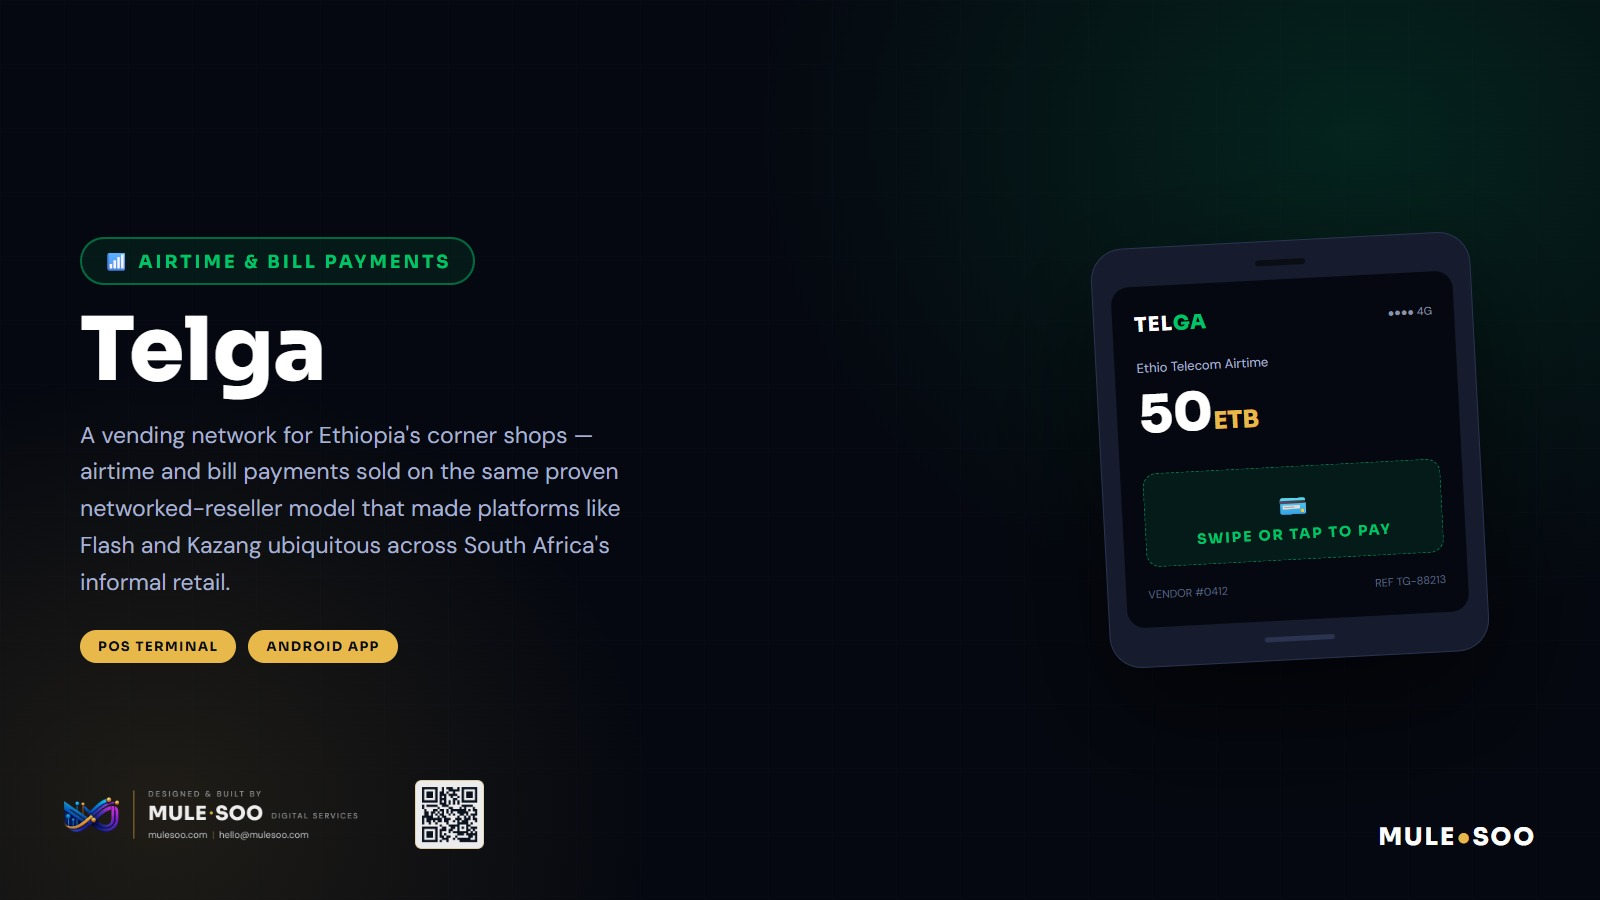
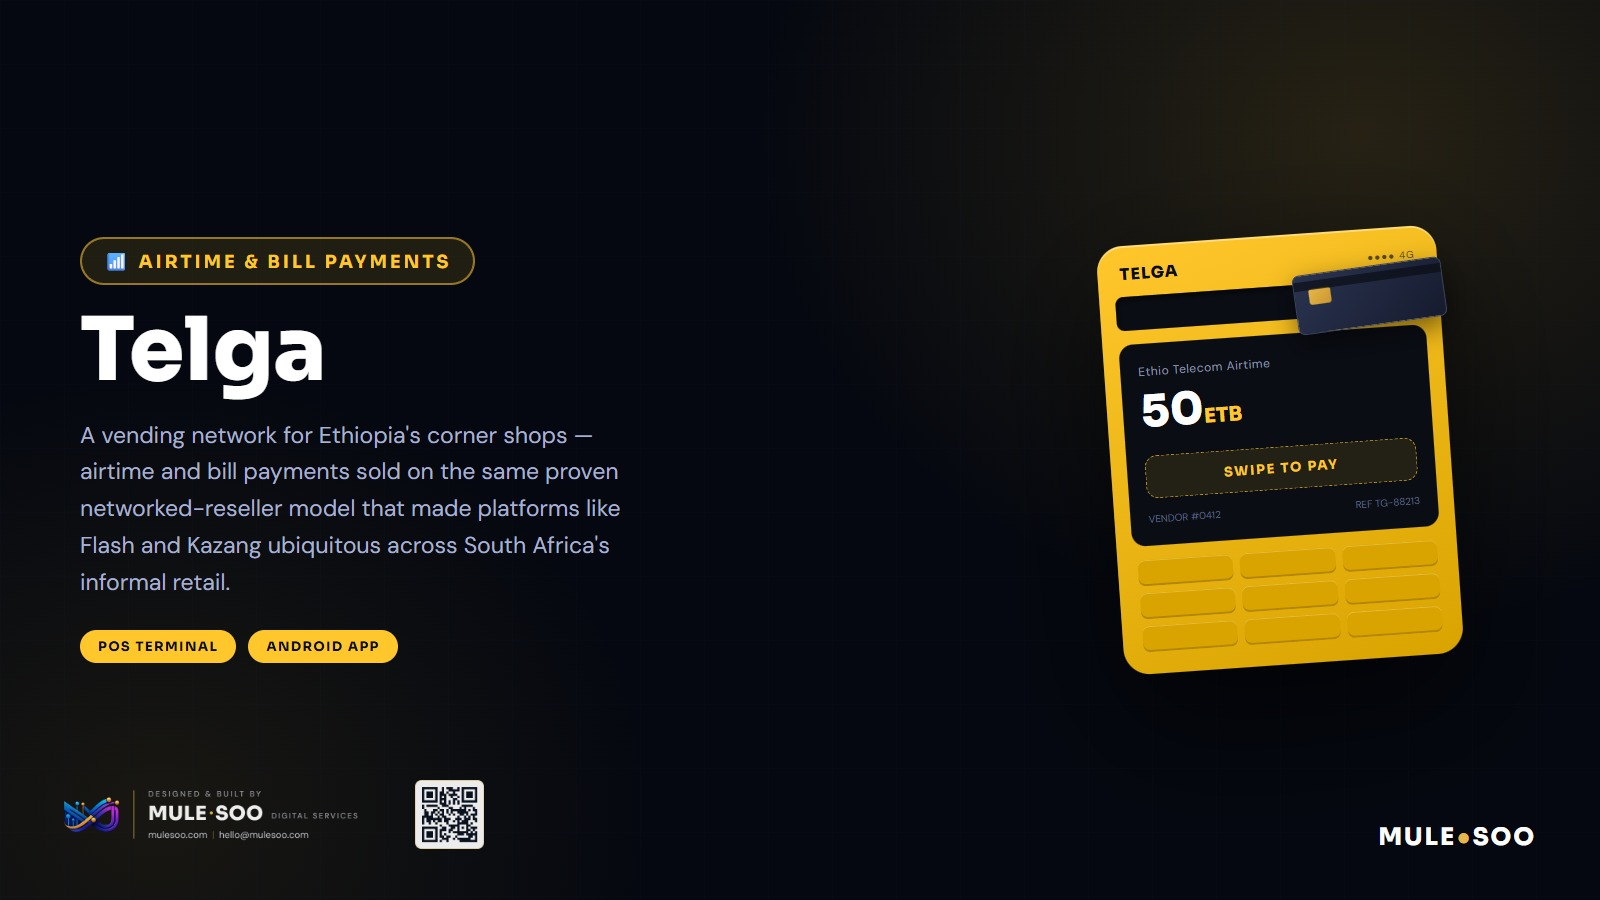
Redesign Telga as a real card terminal, wire in two live URLs, drop Habesha
Telga's cover was a slim phone-shaped screen; the direction was "look like a
new Flash swiping machine, but yellow" — a physical device, not an app.
Rebuilt around that silhouette: molded yellow plastic body, a recessed swipe
slot with a card mid-drag through it, a dark screen, and a physical keypad —
the details that read as a real handheld terminal rather than a screenshot
with a yellow tint.

Both cards that were waiting on a real URL now have one, each confirmed with
a live 200 fetch before being shipped as a clickable link:
  Kidane Mihret  -> pretoriakidanemihretchurch-beta.vercel.app
  Yewogen Derash -> yewogenderash.vercel.app

Habesha Celebration Events is removed from the portfolio entirely — the site
returns 200 on a raw status check, which proves nothing about whether it
actually works, and the user stated directly that it doesn't. The cover image
was left in public/: still referenced by app/about/page.tsx and
app/HomeClient.tsx, checked before touching anything, and removing it there
was never asked for.

Changed region(s): [[0.6562, 0.0, 0.9688, 0.7467], [0.0312, 0.2489, 0.3125, 0.3422], [0.0312, 0.6844, 0.25, 0.7467]]

diff --git a/app/portfolio/page.tsx b/app/portfolio/page.tsx
@@ -68,34 +68,6 @@ const fallbackProjects: Project[] = [
     ],
   },
   {
-    name: 'Habesha Celebration Events',
-    category: 'Website',
-    client: 'Ethiopian Wedding & Event Planning',
-    description: 'An elegant events platform that turns wedding dreams into confirmed bookings — working for you 24/7, even mid-event.',
-    image: 'habesha-celebration-portfolio.png',
-    result: 'Live booking platform',
-    tech: ['Next.js', 'React', 'Framer Motion', 'Netlify'],
-    theme: 'rose',
-    purpose:
-      'A refined online home for a wedding & events business — designed to make couples fall in love with the brand and book with confidence.',
-    capabilities: [
-      'Elegant photo galleries and package showcases',
-      'Instant enquiry form + WhatsApp booking',
-      'Mobile-first, fast-loading design',
-      'Testimonials that build trust',
-    ],
-    adminTracking: [
-      'Every enquiry captured and organised',
-      'See which packages get the most interest',
-      'Follow up leads with status tracking',
-    ],
-    boosts: [
-      'Turns browsers into booked events',
-      'Handles enquiries 24/7 — even during events',
-      'Elevates the brand above local competitors',
-    ],
-  },
-  {
     name: 'YoYo Gym — AI Membership Platform',
     category: 'Gym Platform',
     client: 'Premium Fitness Brand',
@@ -271,6 +243,7 @@ const fallbackProjects: Project[] = [
     result: 'Live bilingual parish website',
     tech: ['Next.js', 'Supabase', 'Bilingual CMS', 'RLS Security'],
     theme: 'gold',
+    site: 'https://pretoriakidanemihretchurch-beta.vercel.app',
     purpose:
       'A complete, production website for an Ethiopian Orthodox Tewahedo church in Pretoria — built so the parish never depends on a developer to keep it current. Every piece of content, from service times to the priest’s details to a new sermon, is edited from a secure admin panel and shown correctly in both English and Amharic.',
     capabilities: [
@@ -303,6 +276,7 @@ const fallbackProjects: Project[] = [
     result: 'Live — identity-verified crowdfunding',
     tech: ['Next.js', 'Prisma', 'Supabase', 'Chapa'],
     theme: 'blue',
+    site: 'https://yewogenderash.vercel.app',
     purpose:
       'A crowdfunding platform built on one idea: donors give more when they can trust who they are giving to. Every campaign owner is identity-verified with documents and a live face capture before a campaign can raise a single Birr, funds from different campaigns are never allowed to mix, and no payment is ever marked successful without the payment gateway’s own webhook confirming it.',
     capabilities: [
@@ -367,7 +341,7 @@ const fallbackProjects: Project[] = [
     image: 'telga-portfolio.jpg',
     result: 'Upcoming — in active development',
     tech: ['Android', 'POS Terminal SDK', 'Next.js', 'Supabase'],
-    theme: 'green',
+    theme: 'gold',
     upcoming: true,
     purpose:
       'Telga brings a proven model to a new market: in South Africa, small shop owners became airtime and bill-payment agents overnight with a POS terminal or an Android phone, no bank card needed from the customer, a small commission on every sale. Telga adapts that same networked-reseller playbook for Ethiopia — a vendor swipes or taps, the customer walks away with airtime, and the vendor earns on volume without carrying stock.',
@@ -437,7 +411,7 @@ const BOOKING_STEPS: { title: string; text: string }[] = [
 ];
 
 // Portfolio order — live, finished projects first; "in active development"
-// projects grouped together near the end; Habesha (no site yet) always last.
+// projects grouped together near the end.
 const rankOf = (name: string): number => {
   const n = name.toLowerCase();
   if (n.includes('mulesoo')) return 0;
@@ -451,7 +425,6 @@ const rankOf = (name: string): number => {
   if (n.includes('hospital') || n.includes('dr.')) return 8;
   if (n.includes('sena')) return 9;
   if (n.includes('telga')) return 10;
-  if (n.includes('habesha')) return 99; // no live site yet — always last
   return 50;
 };
 

diff --git a/Issues-Found/Added Three Portfolio Projects.md b/Issues-Found/Added Three Portfolio Projects.md
@@ -53,13 +53,21 @@ A second, smaller slip: the Amharic in Yewogen Derash's card `name` field in
 cover image itself having the correct text from the start. Caught by
 re-grepping the source README, fixed before commit.
 
-## Still open
+## Resolved
 
-**The church site's live URL.** Confirmed via `AskUserQuestion` that a public
-URL exists; the user is providing it. Until then the card has no `site` link
-(same pattern the existing Habesha Celebration Events card already uses —
-real project, live site, just not yet wired with a clickable badge). Small,
-contained follow-up once the URL arrives — not a rebuild.
+Both pending live URLs arrived and were wired in, each verified with a real
+`fetch` returning `200` before being shipped as a clickable link:
+
+- Kidane Mihret — `pretoriakidanemihretchurch-beta.vercel.app`
+- Yewogen Derash — `yewogenderash.vercel.app`
+
+**The Habesha Celebration Events card was removed from the portfolio
+entirely** — the user stated the site is not actually working, despite it
+returning `200` on a raw status check (which proves nothing about whether it
+works for its purpose). Its cover image was *not* deleted from `public/` —
+still referenced by `app/about/page.tsx` and `app/HomeClient.tsx`, checked
+before touching anything. Removing it there was never asked for and would
+have been scope creep.
 
 ## Related
 

diff --git a/Issues-Found/Telga Portfolio Concept.md b/Issues-Found/Telga Portfolio Concept.md
@@ -40,10 +40,14 @@ either — Telga is a new idea, not a claimed clone.
 Confirmed on Desktop first: no `Telga` folder exists anywhere, so there was
 no real screenshot or asset to build from — this cover is a designed mockup,
 same treatment `scripts/make-portfolio-covers.cjs` gives every other
-concept-stage card. It shows exactly what was asked for: a POS terminal
-screen mid-transaction — "Ethio Telecom Airtime," an amount, a "SWIPE OR TAP
-TO PAY" prompt — tilted, on a dark green/gold ground distinct from the other
-three covers' palettes.
+concept-stage card.
+
+First version showed a slim phone-like screen. The user's direction: it
+should look like "a new Flash swiping machine, but yellow" — a real
+handheld card terminal, not an app on a phone. Redesigned around that
+silhouette: molded yellow plastic body, a recessed swipe slot with a card
+mid-drag through it, a small dark screen, and a physical keypad below —
+the details that read as "device" rather than "screenshot."
 
 ## Related
 
